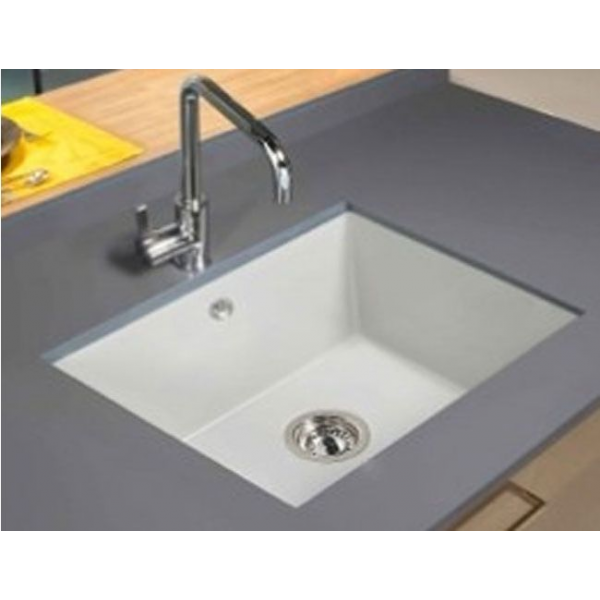
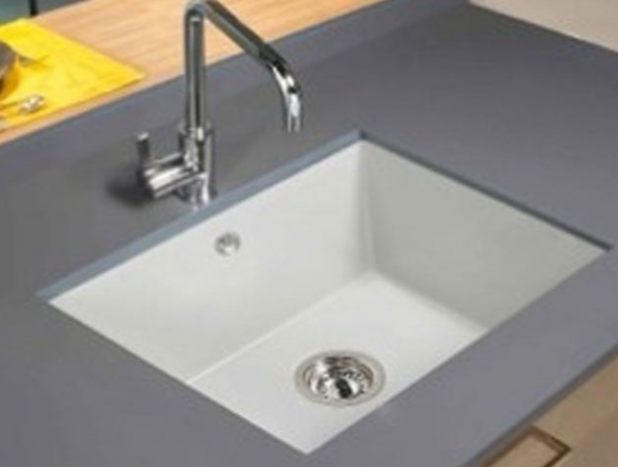
boton de ETS metido

diff --git a/aixeta1.php b/aixeta1.php
@@ -10,6 +10,22 @@
     </h4>
     <h4 class="price">
         267€
+    </h4>   
+    <h4 class="desc">
+
+        Es un fregadero de cocina bajo encimera de la línea Leda de la marca Syan, diseñado para integrarse de forma discreta y moderna bajo la encimera de tu cocina.<p>
+
+        📐 Dimensiones y compatibilidad<p>
+
+        Medidas aproximadas: 55,5 cm de ancho x 51,5 cm de fondo.<p>
+
+        Profundidad útil alrededor de 22,5 cm, proporcionando un buen espacio para lavar utensilios y alimentos.<p>
+
+        Recomendado para muebles a partir de 60 cm de ancho.<p>
+
+        🧱 Diseño y montaje<p>
+
+        Tipo: bajo encimera, lo que significa que queda instalado por debajo de la superficie de trabajo para un acabado más limpio y sin bordes visibles.<p>
     </h4>
     <body>
         <img src='img\leda.png' alt="No s'ha pogut carregar l'imatge"
@@ -41,21 +57,24 @@
     .btn {
         text-align: center;
         position: relative;
-        top: -230px;
         left: 100px;
+        top: -460px;
+        margin-bottom: -250px;
     }
     .a{
         text-align: center;
         position: relative;
-        top: -302px;
+        top: -283px;
         left: 100px;
     }
-    .pie{
-        top: 100px;
+    .desc{
+        text-align: left;
+        position: relative;
+        top: 230px;
+        left: 100px; 
     }
 
     </style>
 </html>
-<html class="pie">
+<html>
     <?php include 'piedepagina.php'; ?>
-</html>
